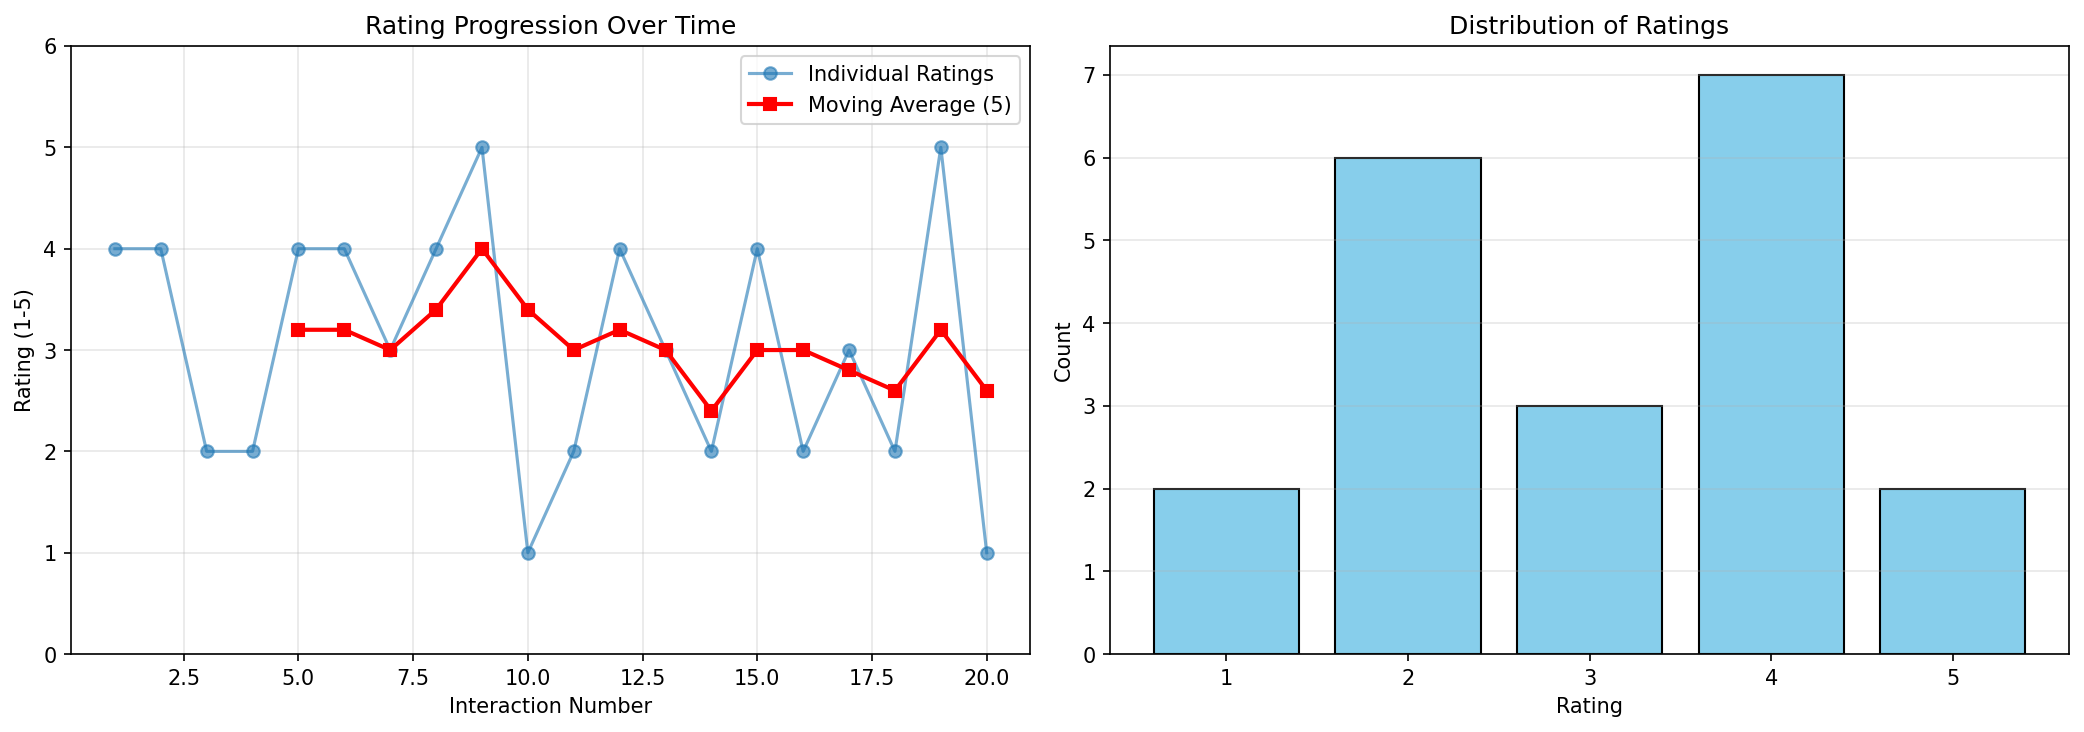
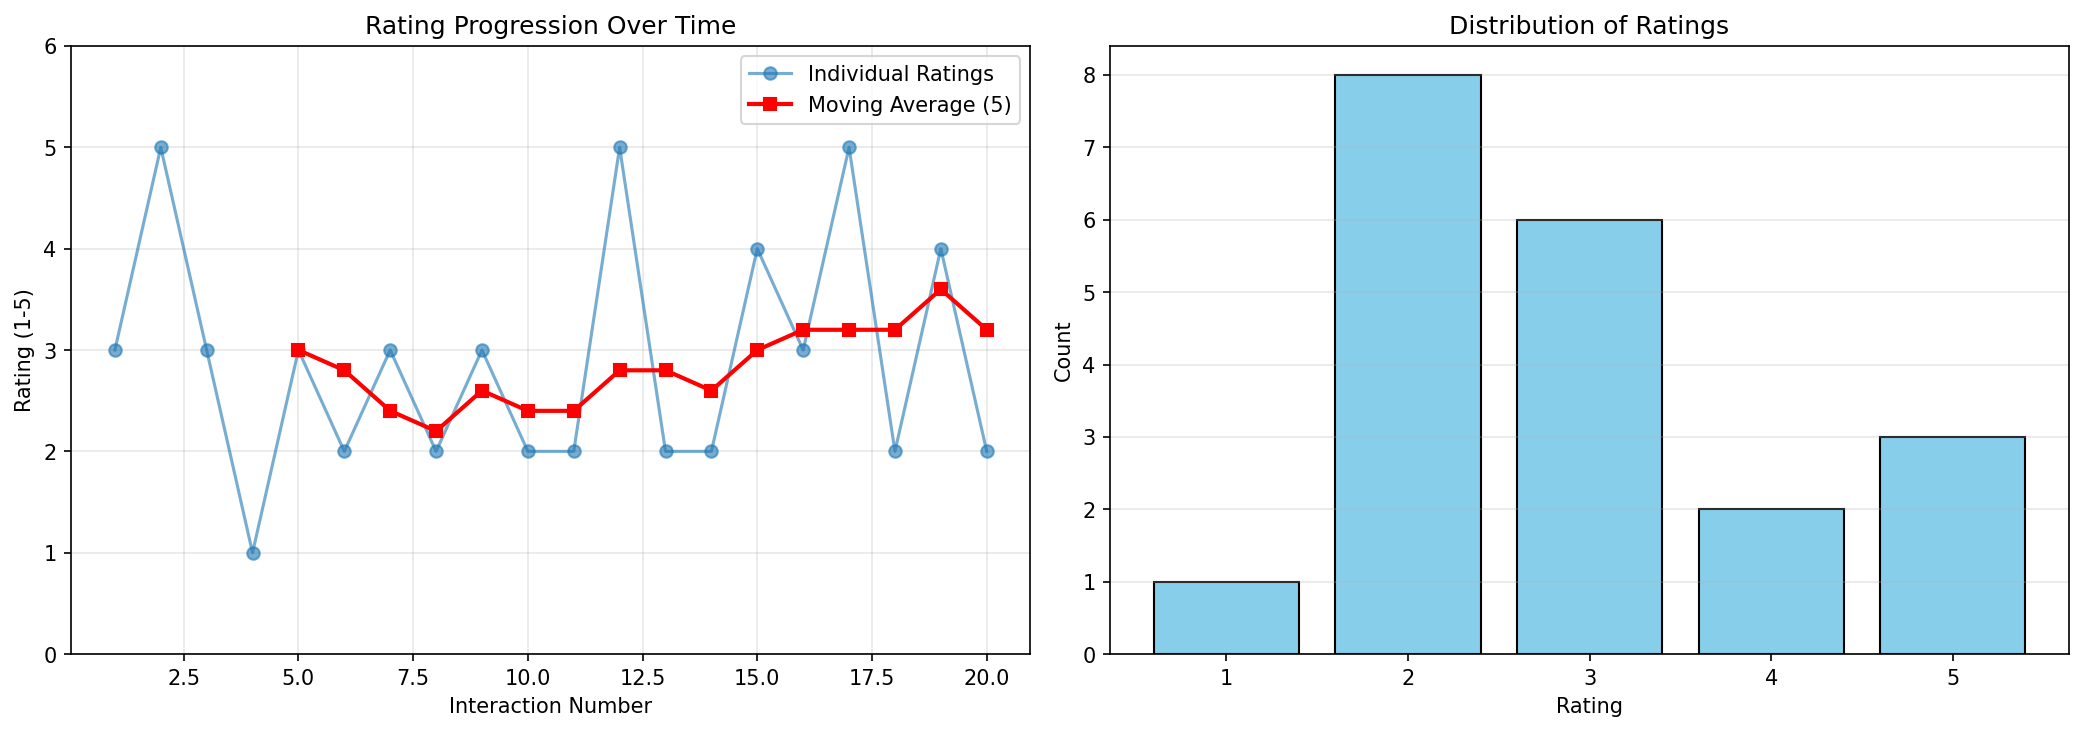
chore: added the SSL reminder to all 5 new chapter README.md files

diff --git a/foundational_design_patterns/11_structured_outputs/README.md b/foundational_design_patterns/11_structured_outputs/README.md
@@ -11,3 +11,9 @@ Run:
 uv sync
 bash run.sh
 ```
+
+If you're behind a corporate SSL-inspecting proxy:
+
+```bash
+AGENTIC_DISABLE_SSL=1 bash run.sh
+```

diff --git a/foundational_design_patterns/12_computer_use/README.md b/foundational_design_patterns/12_computer_use/README.md
@@ -11,3 +11,9 @@ Run:
 uv sync
 bash run.sh
 ```
+
+If you're behind a corporate SSL-inspecting proxy:
+
+```bash
+AGENTIC_DISABLE_SSL=1 bash run.sh
+```

diff --git a/orchestration/skills/README.md b/orchestration/skills/README.md
@@ -12,3 +12,9 @@ Run:
 uv sync
 bash run.sh
 ```
+
+If you're behind a corporate SSL-inspecting proxy:
+
+```bash
+AGENTIC_DISABLE_SSL=1 bash run.sh
+```

diff --git a/orchestration/subagents/README.md b/orchestration/subagents/README.md
@@ -11,3 +11,9 @@ Run:
 uv sync
 bash run.sh
 ```
+
+If you're behind a corporate SSL-inspecting proxy:
+
+```bash
+AGENTIC_DISABLE_SSL=1 bash run.sh
+```

diff --git a/reasoning/deep_research/README.md b/reasoning/deep_research/README.md
@@ -11,3 +11,9 @@ Run:
 uv sync
 bash run.sh
 ```
+
+If you're behind a corporate SSL-inspecting proxy:
+
+```bash
+AGENTIC_DISABLE_SSL=1 bash run.sh
+```